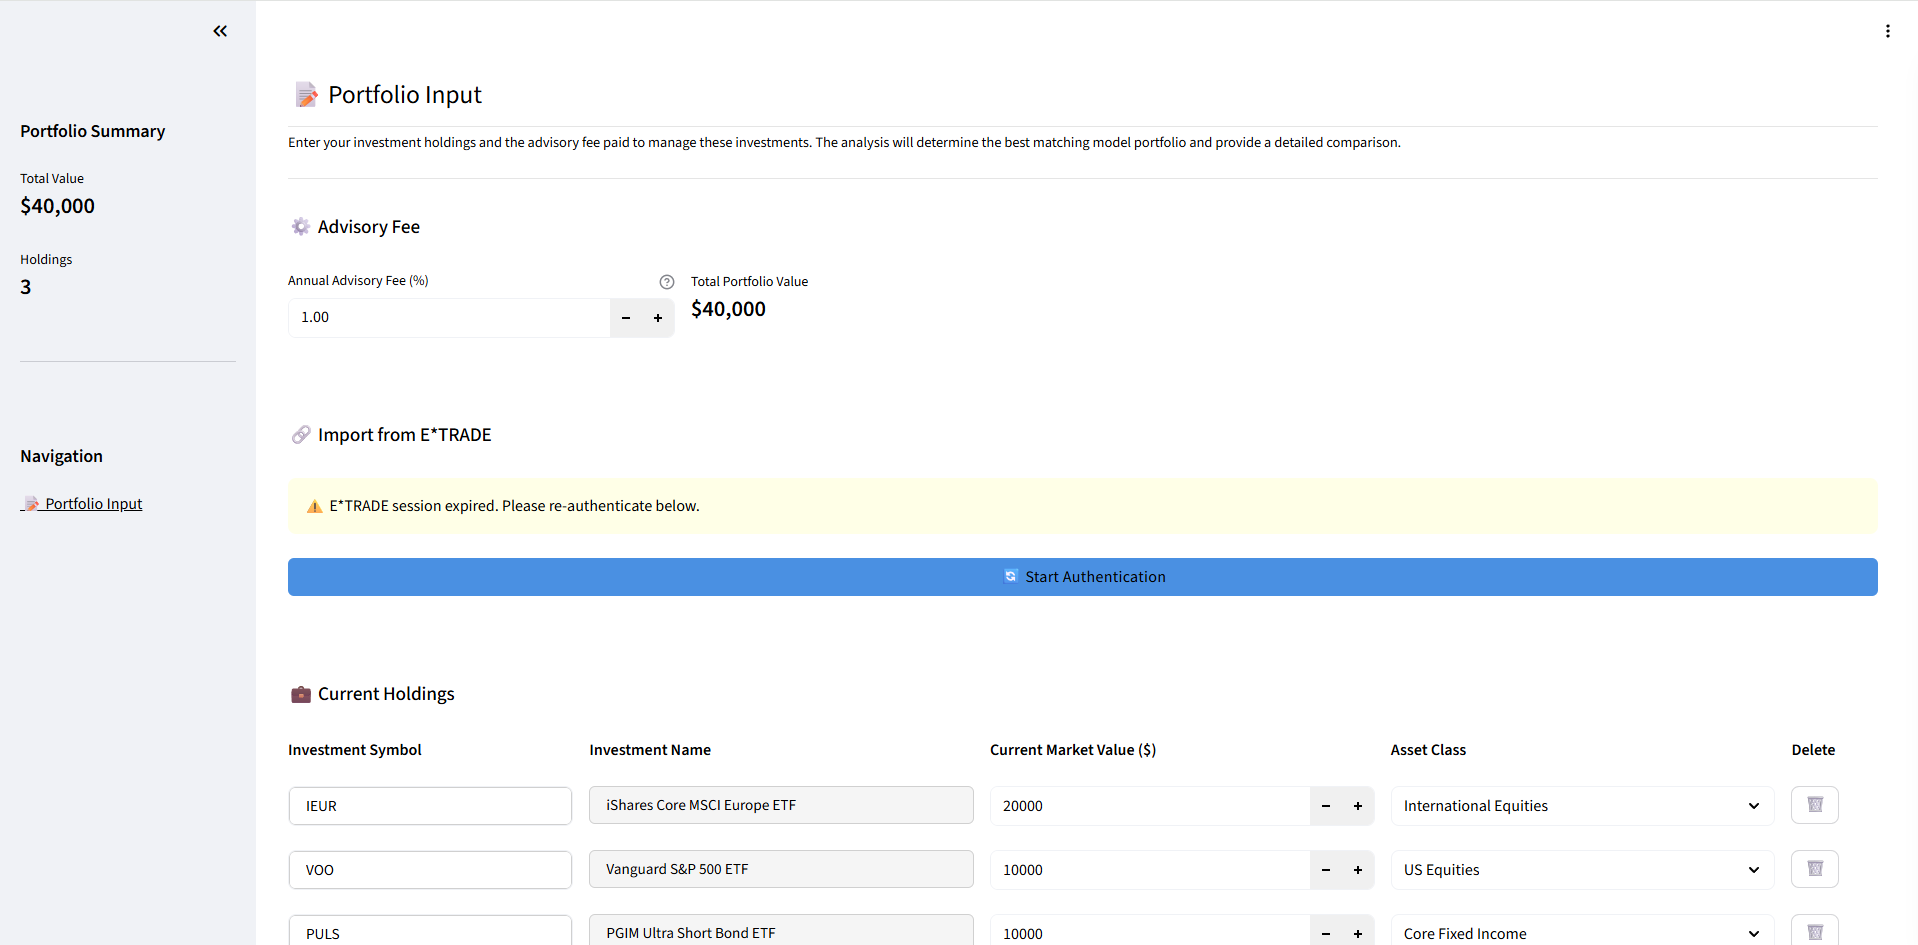
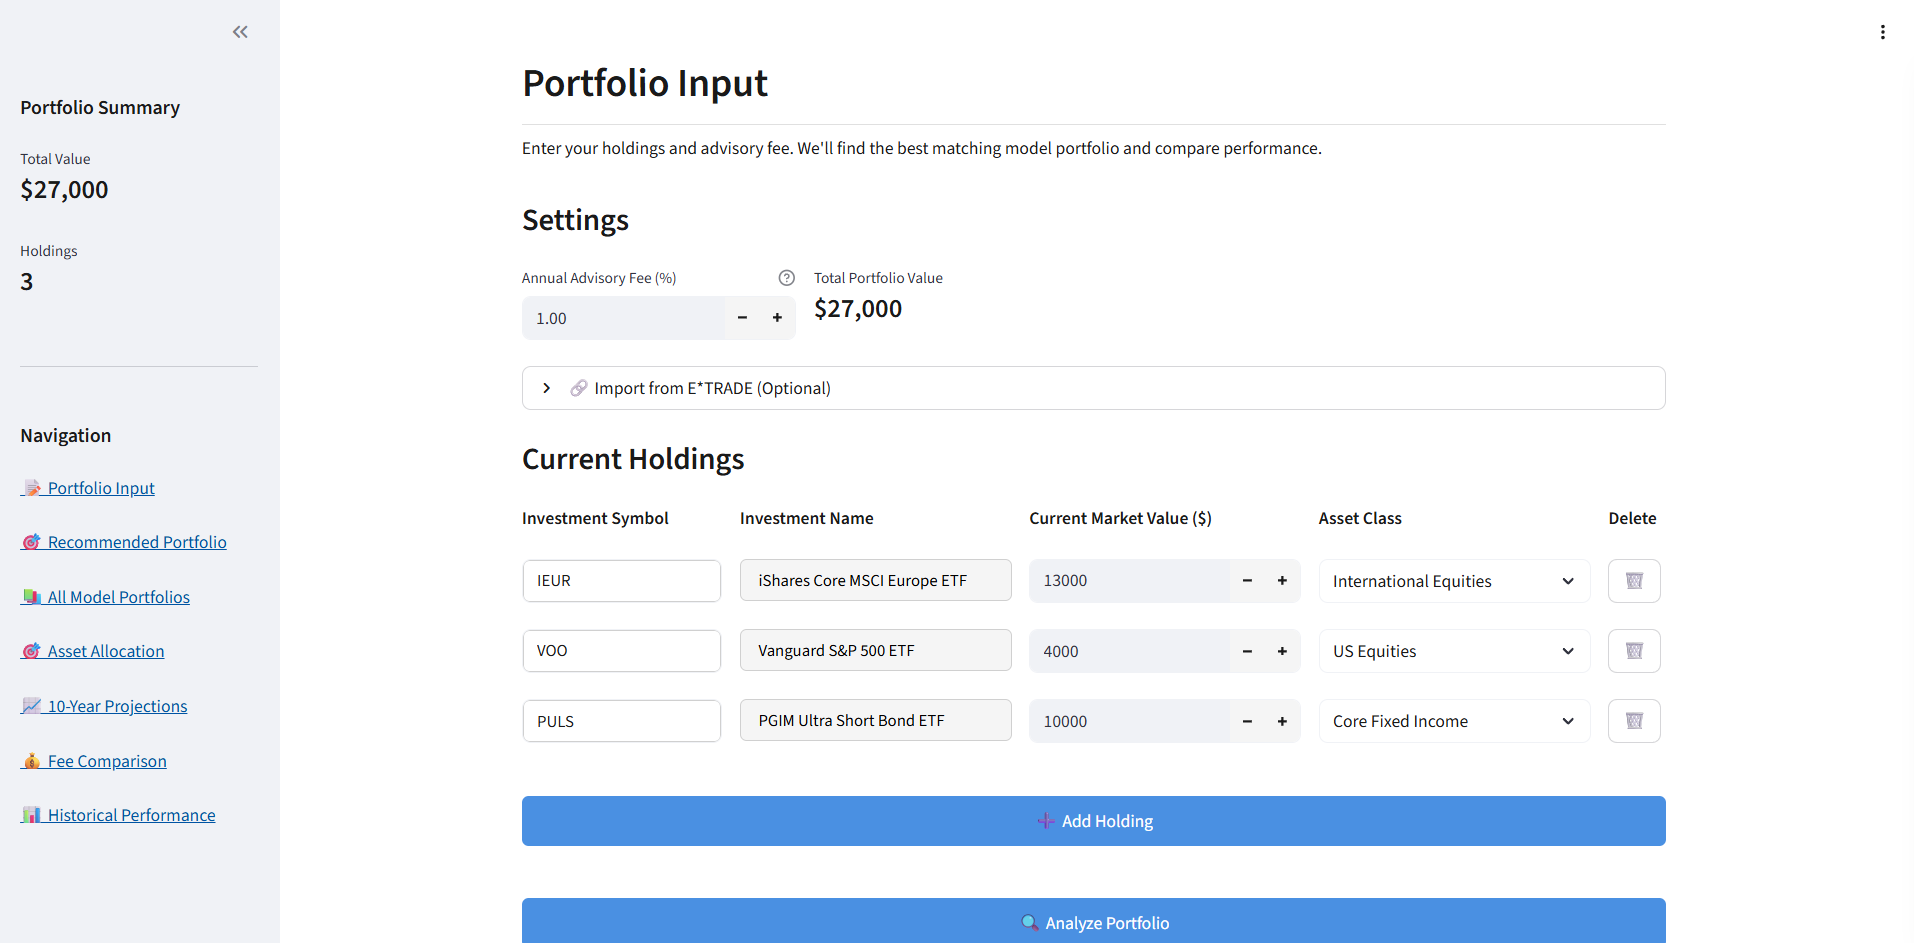
Remove the default header and footer bars from the application
Remove Streamlit's default header, footer, and main menu elements by applying CSS overrides to the `app.py` file.

Replit-Commit-Author: Agent
Replit-Commit-Session-Id: b5e1b5f0-a1f7-4119-801d-a2925cf19a74
Replit-Commit-Checkpoint-Type: intermediate_checkpoint
Replit-Commit-Event-Id: fe61f1df-d55b-4854-b87a-1c1d49be81f7
Replit-Commit-Screenshot-Url: https://storage.googleapis.com/screenshot-production-us-central1/e2d49f3e-4082-4f76-bef4-f9896e9de3ec/b5e1b5f0-a1f7-4119-801d-a2925cf19a74/1PF4A6V
Replit-Helium-Checkpoint-Created: true

diff --git a/app.py b/app.py
@@ -17,7 +17,18 @@ st.set_page_config(
 # Custom CSS for modern minimalist design with balanced spacing
 st.markdown("""
     <style>
-    /* Force light theme */
+    /* Hide Streamlit header and footer */
+    header {visibility: hidden;}
+    #MainMenu {visibility: hidden;}
+    footer {visibility: hidden;}
+    .stAppDeployButton {display:none;}
+    div[data-testid="stStatusWidget"] {display:none;}
+    
+    /* Remove top margin/padding that creates the white bar area */
+    .stApp > header {
+        display: none;
+    }
+    
     .stApp {
         background-color: #ffffff;
         color: #1a1a1a;
